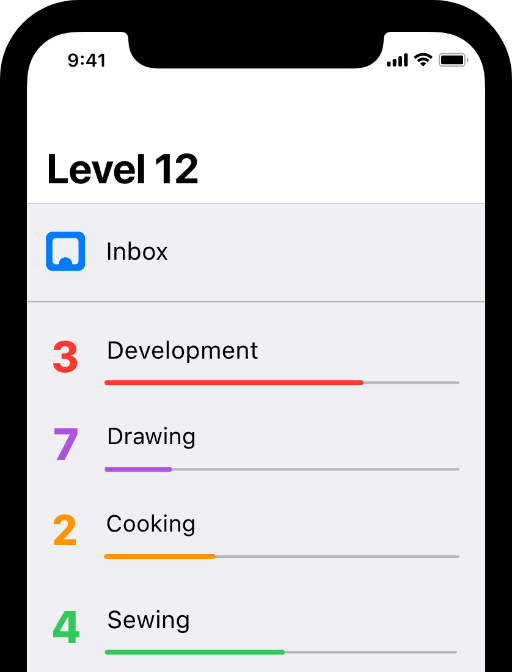
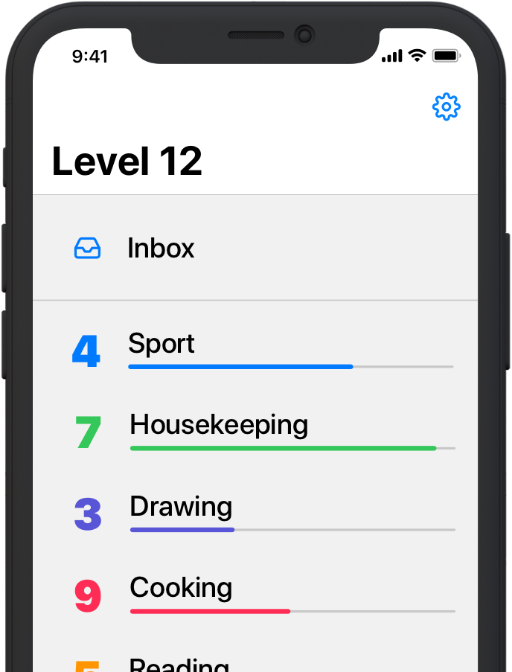
Dark mode and new visuals

Changed region(s): [[0.0, 0.0, 1.0, 1.0], [0.0938, 0.4688, 0.875, 0.5938], [0.0938, 0.2188, 0.4062, 0.2812]]

diff --git a/rplife.html b/rplife.html
@@ -118,6 +118,24 @@
   </div>
   
   <div class="grid-container block block-white">
+    <div class="grid-66 margin-top-64 margin-bottom-32">
+      <h2>Join the Dark Side!</h2>
+      <p>
+        RPLife offers a nicely crafted dark mode.<br>
+        You can force it or let the system decide.<br>
+        <br>
+        Take care of your eyes.
+      </p>
+    </div>
+    <div class="grid-33 hide-on-mobile margin-top-48 margin-bottom-32">
+      <img src="img/rplife-page-dark@2x.png" alt="RPLife capture" class="full-width">
+    </div>
+    <div class="mobile-grid-70 mobile-prefix-15 hide-on-desktop margin-bottom-32">
+      <img src="img/rplife-page-dark@2x.png" alt="RPLife capture" class="full-width">
+    </div>
+  </div>
+  
+  <div class="grid-container block block-white">
     <div class="grid-100 margin-top-64 margin-bottom-64">
       <h2>Crafted for your iPhone</h2>
       <h3>Fed up with ugly multiplatform apps?</h3>
